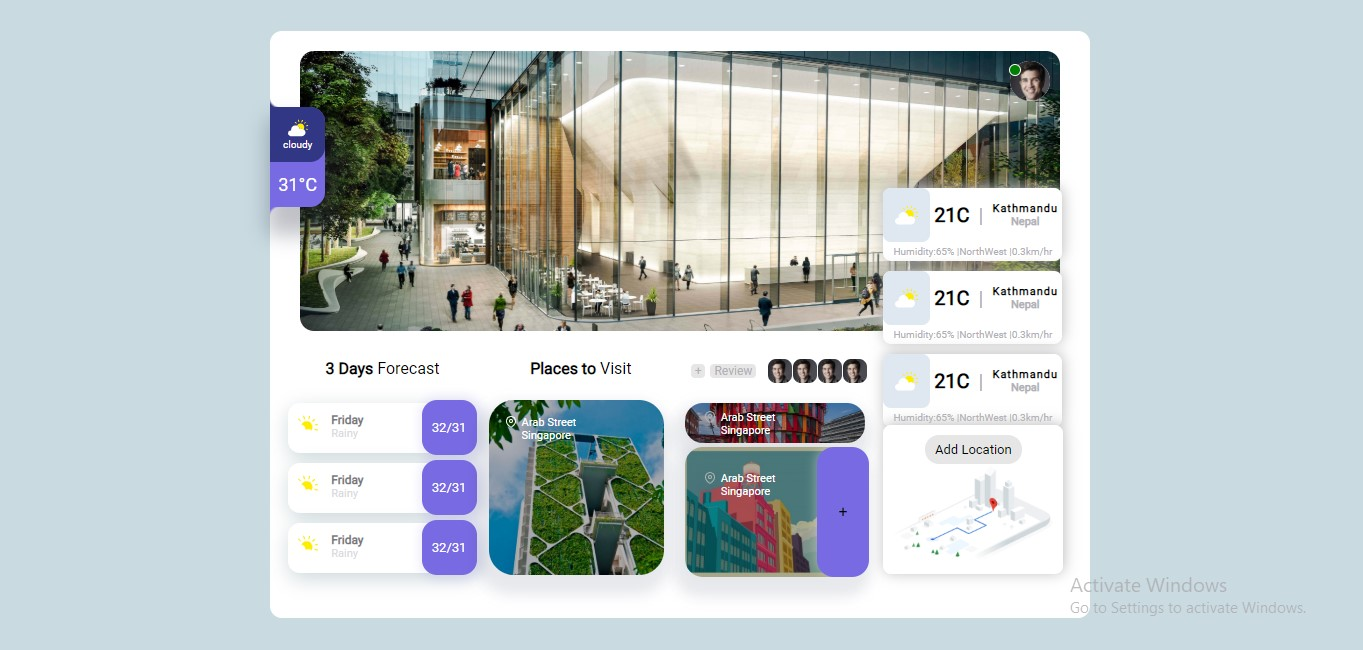
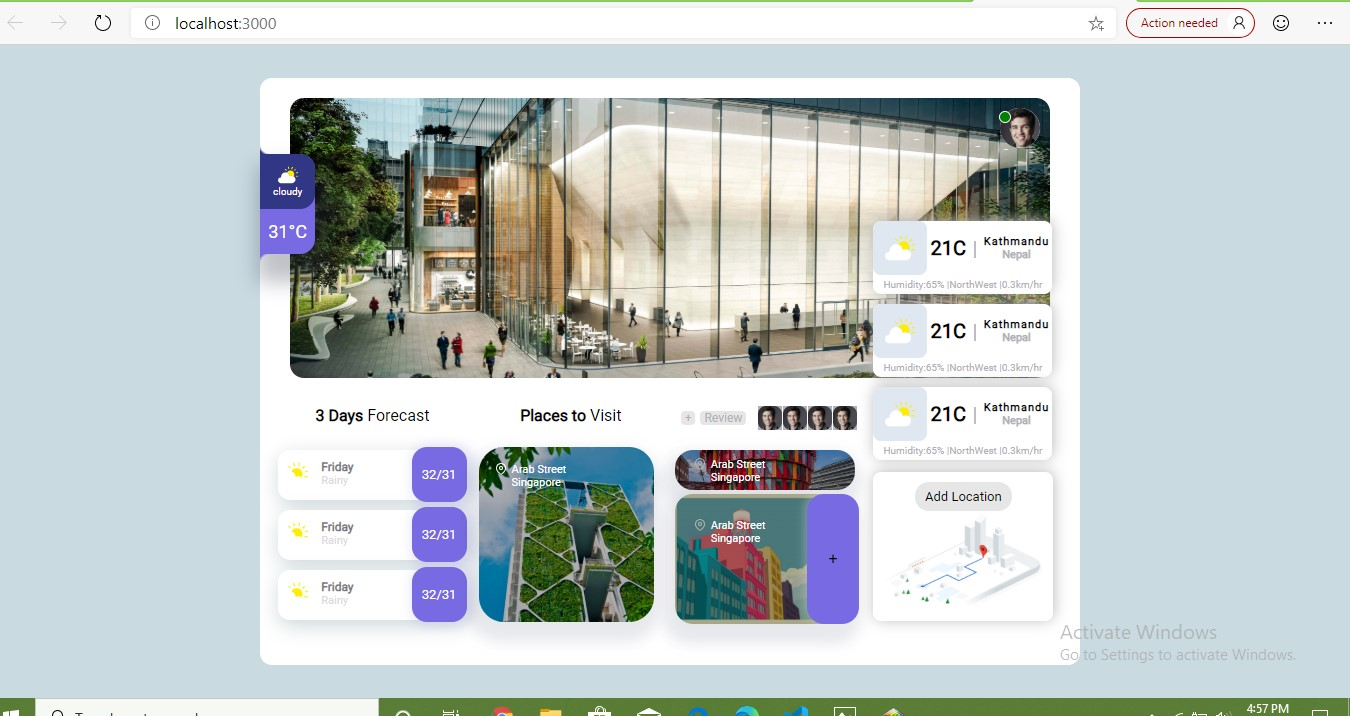
updates

diff --git a/src/components/forecast.css b/src/components/forecast.css
@@ -32,5 +32,5 @@
 }
 .dynamic-weather-card{
     position: absolute;
-    bottom:64%;
+    bottom:70%;
 }
